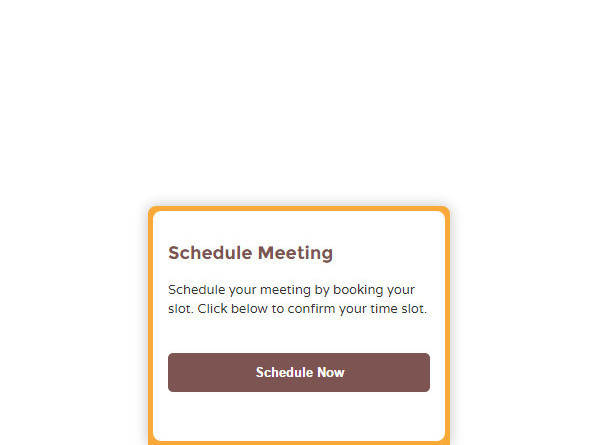
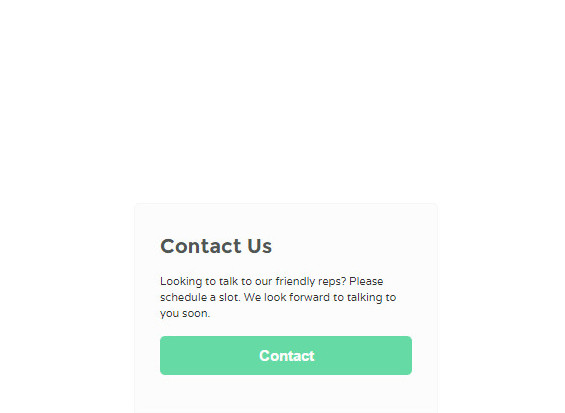
Styling  Changes in new theme

Changed region(s): [[0.2407, 0.4358, 0.7522, 1.0]]

diff --git a/agile-frontend/WebContent/misc/modal-templates/schedule/popout/pop-out.html b/agile-frontend/WebContent/misc/modal-templates/schedule/popout/pop-out.html
@@ -9,15 +9,16 @@
 body {
 	background: #fff;
 	width: 310px;
-	height: 228px;
+	height: 235px;
 }
 
 #popup {
-	background: #f9a937;
-	-webkit-border-radius: 8px 8px 0 0;
-	-moz-border-radius: 8px 8px 0 0;
-	border-radius: 8px 8px 0 0;
-	box-shadow: 0px 0px 20px rgba(0, 0, 0, 0.25);
+	background: #FCFCFC;;
+	  border: 1px solid #f6f6f6;
+	-webkit-border-radius: 5px 5px 0 0;
+	-moz-border-radius: 5px 5px 0 0;
+	border-radius: 5px 5px 0 0;
+	/*box-shadow: 0px 0px 20px rgba(0, 0, 0, 0.25); */
 	color: #333 !important;
 	font: 13px/19px "Varela", Arial, Helvetica, sans-serif !important;
 	letter-spacing: 0;
@@ -46,12 +47,11 @@ body {
 }
 
 #popup-body {
-	background: #fff;
 	-webkit-border-radius: 8px;
 	-moz-border-radius: 8px;
 	border-radius: 8px;
 	margin: 5px;
-	padding: 20px 15px 5px;
+	padding: 20px 20px 20px;
 	position: relative;
 }
 
@@ -86,11 +86,10 @@ body {
 }
 
 #popup-title {
-	color: #7c5553 !important;
-	font: bold 18px/24px "Montserrat", Arial, Helvetica,
+	color: #505653 !important;
+	font: bold 20px/24px "Montserrat", Arial, Helvetica,
 		sans-serif !important;
-	padding-right: 60px;
-	  padding-top: 10px;
+	  padding-top: 5px;
 }
 
 #popup-body p {
@@ -99,6 +98,13 @@ body {
 
 #popup-form p:last-child {
 	margin-top: -5px;
+	margin-bottom: 20px;
+}
+
+#popup-content p:first-child {
+	  font-size: 11px!important;
+  margin-bottom: 20px;
+  line-height: 1.5;
 }
 
 #popup-form input.popup-text {
@@ -118,8 +124,12 @@ body {
 	color: #c00;
 }
 
+#popup-form p:first-child {
+  margin-bottom: 10px;
+}
 #popup-form .popup-button {
-	background: #7c5553;
+	/*background: #7c5553; */
+	background: #65DAA5;
 	border: 0;
 	-webkit-border-radius: 5px;
 	-moz-border-radius: 5px;
@@ -133,13 +143,15 @@ body {
     padding-top: 10px;
     padding-bottom: 10px;
     width: 100%;
-  display: block;
-  box-sizing: border-box;
+    display: block;
+    box-sizing: border-box;
     text-align: center;
+    font-size: 15px!important;
 }
 
 #popup-form .popup-button:hover {
-	background: #6b403d;
+	/*background: #6b403d; */
+	background: #5ECF9C;
 }
 
 #popup-footer {
@@ -188,13 +200,11 @@ margin-bottom: 5px!important;
 	<div id="opened">
 		<div id="popup">
 			<div id="popup-body">
-				<div id="popup-title">Schedule Meeting</div>
+				<div id="popup-title">Contact Us</div>
 				<div id="popup-content">
-					<p>Schedule your meeting by booking your slot. Click below to confirm your time slot.</p>
+					<p>Looking to talk to our friendly reps? Please schedule a slot. We look forward to talking to you soon.</p>
 					<form id="popup-form">
-					    <div class="m-t-sm"></div>
-						<p><a class="popup-button" href="https://user_domain.agilecrm.com/calendar/user_name" target="_blank">Schedule Now</a></a></p>
-						<p>&nbsp;&nbsp;</p>
+						<p><a class="popup-button" href="https://user_domain.agilecrm.com/calendar/user_name" target="_blank">Contact</a></a></p>
 					</form>
 				</div>
 				<div id="popup-close">x</div>
